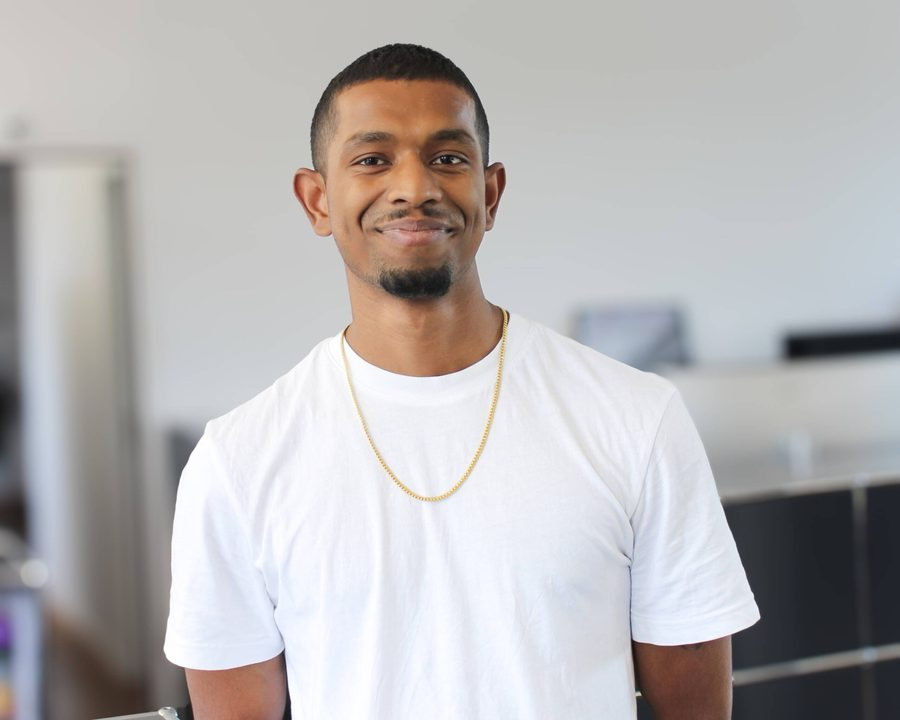
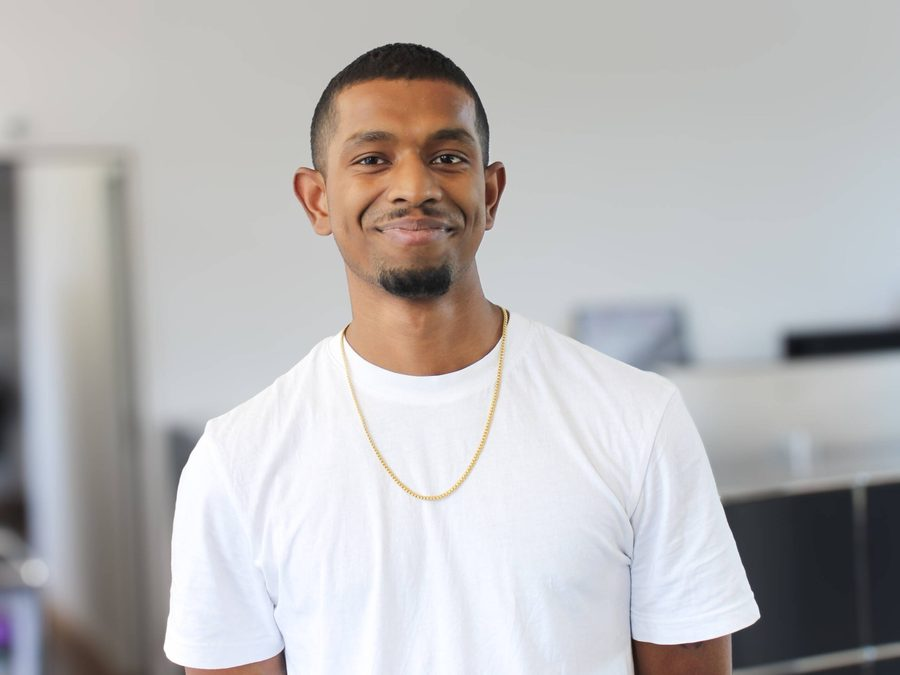
Team photo refresh, GL titles, hero Bewerben CTA, borderless 3D viewer
Portraits, re-checked against iem.ch (September 2026). The client is
re-shooting the roster from 3:2 to 4:3; 18 people had moved to the new
2560x1920 original, so their local copies were stale crops. Re-pulled at
the _82_900_0 derivative, matching the rest of the folder. Finn Borter
and Yosef Shonora have since been photographed and drop out of the
silhouette fallback, leaving Valentina Simic as the only photo: null.
Diffed by aspect ratio rather than bytes, per CLAUDE.md — every other
page on iem.ch (Referenzen, Sponsoring, Karriere, Dienstleistungen) is
dimension-identical and untouched.

Team cards print the Geschaeftsleitung's three functions again, at the
user's request. Those are exactly the three iem.ch publishes; the
roster's own role values came from IEM internally, cannot be verified
publicly, and stay unprinted. role was kept in the data for this.

Hero gains a Bewerben CTA beside Kontaktiere, firing the existing
iem:open-bewerbung event so BewerbungDialog stays hosted in JobRegister.

The Ablauf 3D viewer loses its outer ring; shadow-card still carries the
elevation.

Also included: two files already modified in the working tree before
this change - the README and search.ts halves of the earlier
'no published function' edit. The README paragraph is updated here to
match the restored GL titles.

diff --git a/src/components/TeamGrid.tsx b/src/components/TeamGrid.tsx
@@ -1,7 +1,7 @@
 import { useEffect, useMemo, useState } from "react";
 import { FILTER_TEAM } from "./SiteSearch";
 import { initials, normalize } from "@/lib/search";
-import { groups, team, type Group, type Member } from "@/content/iem";
+import { team, trades, type Member, type Trade } from "@/content/iem";
 
 type Filter = "Alle" | "Thun" | "Bern";
 const filters: Filter[] = ["Alle", "Thun", "Bern"];
@@ -11,7 +11,7 @@ const filters: Filter[] = ["Alle", "Thun", "Bern"];
  * its authored order and looking exactly as it did before the dropdown existed,
  * and picking an option narrows it to that group.
  */
-type GroupChoice = "Alle" | Group;
+type GroupChoice = "Alle" | Trade;
 
 /**
  * A-Z by first name, with the surname as tiebreak.
@@ -30,16 +30,18 @@ function byFirstName(a: Member, b: Member) {
 
 /**
  * Every whitespace-separated token must appear somewhere in the member's name,
- * function, office or group, so "pedro sanitär" narrows instead of returning
+ * office or Fachgruppe, so "pedro sanitär" narrows instead of returning
  * nothing. `normalize` is shared with the site search, so both boxes fold
  * umlauts the same way.
+ *
+ * A person's function and their apprenticeship are deliberately *not* in the
+ * haystack. The cards no longer print either, so matching on them would filter
+ * the roster on something the reader cannot see — and typing "Lernende" would
+ * still single out the apprentices, which is exactly what removing the label
+ * was meant to stop.
  */
 function matches(member: Member, tokens: string[]) {
-  const haystack = normalize(
-    [member.name, member.role, member.office, member.group, member.lernend ? "Lernende" : null]
-      .filter(Boolean)
-      .join(" "),
-  );
+  const haystack = normalize([member.name, member.office, member.group].filter(Boolean).join(" "));
   return tokens.every((t) => haystack.includes(t));
 }
 
@@ -90,8 +92,9 @@ export function TeamGrid() {
     return () => window.removeEventListener(FILTER_TEAM, onFilter);
   }, []);
 
-  // Split on `lead`, not on "has a role": most of the roster carries a function
-  // too, and keying off `role` would pull everyone into the leadership block.
+  // Split on `lead` — the one field that says who sits in the Geschäftsleitung.
+  // Nothing on the page prints a function any more, so this is the *only* thing
+  // that can drive the split; don't reintroduce a "has a role" test.
   //
   // The office pills stay a roster-only filter, as before — but search spans
   // both blocks, because looking up a name has to find that person whether or
@@ -100,13 +103,7 @@ export function TeamGrid() {
   const roster = useMemo(() => {
     const rest = team.filter((m) => !m.lead && matches(m, tokens));
     const byOffice = active === "Alle" ? rest : rest.filter((m) => m.office === active);
-    // Lernende is the second axis, so it reads the flag; the trades read `group`.
-    const byGroup =
-      group === "Alle"
-        ? byOffice
-        : group === "Lernende"
-          ? byOffice.filter((m) => m.lernend)
-          : byOffice.filter((m) => m.group === group);
+    const byGroup = group === "Alle" ? byOffice : byOffice.filter((m) => m.group === group);
     return [...byGroup].sort(byFirstName);
   }, [active, group, tokens]);
 
@@ -130,11 +127,18 @@ export function TeamGrid() {
                     className="aspect-[4/5] w-full transition-transform duration-500 group-hover:scale-[1.03]"
                   />
                 </div>
-                <div className="flex flex-col gap-1 p-5">
+                {/* Name and function. These three titles are the only ones on
+                    the page, and the only ones iem.ch itself publishes — the
+                    roster's `role` values came from IEM internally and stay
+                    unprinted. `role` is optional, so guard it rather than
+                    assuming a lead has one. */}
+                <div className="p-5">
                   <h4 className="font-display text-lg font-semibold leading-tight text-ink">
                     {m.name}
                   </h4>
-                  <p className="text-[13px] leading-snug text-brand-blue">{m.role}</p>
+                  {m.role ? (
+                    <p className="mt-1.5 text-[13px] leading-snug text-muted">{m.role}</p>
+                  ) : null}
                 </div>
               </li>
             ))}
@@ -164,7 +168,7 @@ export function TeamGrid() {
                 value={query}
                 onChange={(e) => setQuery(e.target.value)}
                 placeholder="Person suchen"
-                aria-label="Team nach Name, Funktion oder Standort durchsuchen"
+                aria-label="Team nach Name, Fachgruppe oder Standort durchsuchen"
                 className="w-full rounded-full bg-surface py-1.5 pl-9 pr-9 text-[13px] text-ink ring-1 ring-line transition-colors placeholder:text-muted hover:ring-line-strong [&::-webkit-search-cancel-button]:appearance-none"
               />
               {query ? (
@@ -200,7 +204,7 @@ export function TeamGrid() {
                 className="w-full cursor-pointer appearance-none rounded-full bg-surface py-1.5 pl-4 pr-9 text-[13px] font-medium text-ink ring-1 ring-line transition-colors hover:ring-line-strong sm:w-auto"
               >
                 <option value="Alle">Alle Gruppen</option>
-                {groups.map((g) => (
+                {trades.map((g) => (
                   <option key={g} value={g}>
                     {g}
                   </option>
@@ -255,16 +259,14 @@ export function TeamGrid() {
                   className="aspect-[3/4] w-full transition-transform duration-500 group-hover:scale-[1.04]"
                 />
               </div>
+              {/* Name and office, nothing else. The roster used to print a
+                  function and a "· Lernende" marker; both were removed at the
+                  client's request, so no card singles a person out by rank or
+                  by being an apprentice. */}
               <div className="flex flex-col gap-0.5">
                 <span className="text-[14px] font-medium leading-tight text-ink">{m.name}</span>
-                {/* Function where IEM has supplied one; the rest keep the
-                    office line alone rather than showing an empty slot. */}
-                {m.role ? (
-                  <span className="text-[12px] leading-snug text-brand-blue">{m.role}</span>
-                ) : null}
                 <span className="font-mono text-[10px] uppercase tracking-ultra-wide text-muted">
                   {m.office}
-                  {m.lernend ? <span className="text-brand-bronze"> · Lernende</span> : null}
                 </span>
               </div>
             </li>

diff --git a/src/content/iem.ts b/src/content/iem.ts
@@ -801,22 +801,25 @@ export type Member = {
   name: string;
   office: "Thun" | "Bern" | null;
   /**
-   * Published function.
+   * Published function. **Recorded, but no longer shown anywhere on the page** —
+   * the client asked for every personal function to come off the team section,
+   * the Geschäftsleitung's three included. `TeamGrid` and the site search both
+   * ignore this field; a card carries name and office only.
    *
-   * iem.ch/team prints a function for **three** people only — the Geschäfts-
-   * führer and the two site heads. Every other `role` here comes from IEM
-   * internally and cannot be checked against the public site, so treat it the
-   * way you would any unsourced claim: **never guess one.** A wrong job title
-   * on a real, named person is a different class of error from a wrong project
-   * figure. Leave it unset and the card shows name and office only.
+   * It is kept rather than deleted because the three values that came from
+   * iem.ch/team (Geschäftsführer, the two Standortleiter) are sourced facts and
+   * cheap to hold. Everything else here came from IEM internally and cannot be
+   * checked against the public site, so the old rule still stands if the labels
+   * ever come back: **never guess a function for a real, named person.**
    */
   role?: string;
   /**
    * Geschäftsleitung — drives the split in `TeamGrid`.
    *
-   * Deliberately separate from `role`: the split used to key off "has a role",
-   * which silently meant that giving anyone else a function moved them into the
-   * leadership block and emptied the roster.
+   * Deliberately separate from `role`, and now the *only* thing that can drive
+   * that split, since no function is rendered. The split used to key off "has a
+   * role", which silently meant that giving anyone else a function moved them
+   * into the leadership block and emptied the roster.
    */
   lead?: boolean;
   /**
@@ -832,10 +835,15 @@ export type Member = {
    */
   group?: Trade;
   /**
-   * Lernende — orthogonal to `group`, never a substitute for it.
+   * Lernende — orthogonal to `group`, never a substitute for it: apprentices
+   * hold a trade as well, so this is a flag alongside `group` rather than a
+   * value inside it.
    *
-   * See the note on `groups`: apprentices hold a trade as well, so this is a
-   * flag alongside `group` rather than a value inside it.
+   * **Recorded, not published.** Like `role`, this was taken off the page at the
+   * client's request — no card prints it, the Fachgruppen dropdown has no
+   * "Lernende" option, and neither search box matches on it. Don't wire it back
+   * into the UI without asking; the point of removing it was that the roster
+   * stops marking out which colleagues are apprentices.
    */
   lernend?: boolean;
   photo: string | null;
@@ -843,25 +851,16 @@ export type Member = {
 
 /**
  * The four Fachgruppen a person belongs to — mutually exclusive, one each.
+ * They are also, in this order, the options of the dropdown in `TeamGrid`.
+ *
+ * There is deliberately **no fifth "Lernende" option.** It is not a trade —
+ * every apprentice IEM listed also sits in one — and more to the point the page
+ * no longer states anyone's function at all, so it is not a filter either. See
+ * `lernend` on `Member`: the flag is still recorded, just never published.
  */
 export const trades = ["Admin", "Heizung", "Lüftung", "Sanitär"] as const;
 
 export type Trade = (typeof trades)[number];
-
-/**
- * The dropdown's options: the four trades, plus Lernende.
- *
- * **Lernende is a second axis, not a fifth trade.** Every apprentice IEM listed
- * also sits in a trade — an apprentice learns *within* Heizung or Sanitär — and
- * the one assignment the public site publishes says so outright: Dilagshan
- * Krishnamoorthy's function on iem.ch/team reads "Lernende Lüftung". So it is
- * carried as the separate `lernend` flag rather than as a `group` value, the
- * same split `lead` and `role` already make above. Collapsing the two would
- * force every apprentice out of their trade.
- */
-export const groups = [...trades, "Lernende"] as const;
-
-export type Group = (typeof groups)[number];
 
 export const team: Member[] = [
   // `group` / `lernend` below were supplied by IEM (August 2026), not derived.
@@ -891,7 +890,7 @@ export const team: Member[] = [
   { name: "Ken Zurflüh", office: "Bern", group: "Heizung", photo: "/img/team/ken-zurflh.jpg" },
 
   { name: "Nico Baumgartner", office: "Thun", group: "Heizung", photo: "/img/team/nico-baumgartner.jpg" },
-  { name: "Finn Borter", office: "Thun", group: "Heizung", photo: null },
+  { name: "Finn Borter", office: "Thun", group: "Heizung", photo: "/img/team/borter-finn.jpg" },
   { name: "Kastriot Colaj", office: "Thun", group: "Heizung", photo: "/img/team/colaj-kastriot-2026-2.jpg" },
   { name: "Ilir Destani", office: "Thun", group: "Heizung", photo: "/img/team/destani-ilir-2026.jpg" },
   { name: "Seraina Grossen", office: "Thun", group: "Admin", photo: "/img/team/grossen-seraina.jpg" },
@@ -904,7 +903,7 @@ export const team: Member[] = [
   { name: "Stefan Pulfer", office: "Thun", group: "Sanitär", photo: "/img/team/stefan-pulfer.jpg" },
   { name: "Janis Reusser", office: "Thun", group: "Heizung", photo: "/img/team/reusser-janis.jpg" },
   { name: "Jan Reuter", office: "Thun", group: "Lüftung", photo: "/img/team/jan-reuter.jpg" },
-  { name: "Yosef Shonora", office: "Thun", group: "Sanitär", photo: null },
+  { name: "Yosef Shonora", office: "Thun", group: "Sanitär", photo: "/img/team/shonora-yosef.jpg" },
   { name: "Joel Soder", office: "Thun", group: "Sanitär", photo: "/img/team/joel-soder.jpg" },
   { name: "Miriam Soricelli", office: "Thun", group: "Lüftung", photo: "/img/team/soricelli-miriam-2025.jpg" },
   { name: "Emir Sylejmani", office: "Thun", group: "Heizung", lernend: true, photo: "/img/team/emir-sylejmani.jpg" },

diff --git a/src/components/Hero.tsx b/src/components/Hero.tsx
@@ -1,4 +1,5 @@
 import { useState } from "react";
+import { openBewerbung } from "./BewerbungButton";
 import { Button } from "./Button";
 import { HeroModel } from "./HeroModel";
 import { KPI } from "./KPI";
@@ -89,6 +90,12 @@ export function Hero() {
           <div className="flex flex-wrap items-center gap-3">
             <Button size="lg" href="#kontakt" trailing="→">
               Kontaktiere
+            </Button>
+            {/* Opens the form hosted down in `JobRegister` over the
+                `iem:open-bewerbung` seam, so the hero neither owns the dialog
+                nor has to scroll the reader to Karriere to reach it. */}
+            <Button size="lg" variant="mark" onClick={() => openBewerbung()}>
+              Bewerben
             </Button>
             <Button size="lg" variant="secondary" href="#referenzen">
               Referenzen ansehen

diff --git a/src/components/ModelScene.tsx b/src/components/ModelScene.tsx
@@ -730,7 +730,7 @@ export function ModelScene({ act, running }: { act: Act; running: boolean }) {
        phase buttons and the caption below the fold. Height that answers to the
        viewport keeps the whole section in view; the cap stops it growing
        absurd on a tall monitor. */
-    <div className="relative aspect-[4/3] w-full overflow-hidden rounded-lg bg-surface ring-1 ring-line shadow-card sm:aspect-[16/10] lg:aspect-auto lg:h-[min(58vh,560px)]">
+    <div className="relative aspect-[4/3] w-full overflow-hidden rounded-lg bg-surface shadow-card sm:aspect-[16/10] lg:aspect-auto lg:h-[min(58vh,560px)]">
       <div aria-hidden className="grid-bg absolute inset-0 opacity-50" />
 
       <div

diff --git a/src/lib/search.ts b/src/lib/search.ts
@@ -130,9 +130,11 @@ export const searchIndex: SearchResult[] = [
       id: `team:${m.name}`,
       kind: "Team",
       title: m.name,
-      detail: [m.role, m.office, m.group, m.lernend ? "Lernende" : null]
-        .filter(Boolean)
-        .join(" · "),
+      // Office and Fachgruppe only. A person's function and their
+      // apprenticeship are recorded but unpublished (see `Member` in the
+      // content module), and the search panel is part of the page — printing
+      // them here would put back exactly what the team cards no longer show.
+      detail: [m.office, m.group].filter(Boolean).join(" · "),
       href: "#team",
       member: m,
       image: m.photo,

diff --git a/CLAUDE.md b/CLAUDE.md
@@ -53,10 +53,12 @@ Unused leftovers: `ref/magglingen-2.jpg` and `ref/stuckimatte-2.jpg` are byte-id
 `team` in `src/content/iem.ts` is the full roster — **41 people**, which matches the "41 Mitarbeitende inkl. Lernende" figure on iem.ch/ueber-uns.
 
 - Names and name→photo pairings were taken from the `alt`/`title` attributes on iem.ch/team, **not** inferred from filenames. The filenames mix `first_last` and `last_first`, so guessing mislabels people. If you add someone, get their pairing the same way.
-- **`role` and `lead` are two different things.** `lead: true` marks the three Geschäftsleitung members and is what `TeamGrid` splits on; `role` is anyone's function. They used to be the same field — the split keyed off "has a role", so giving a fourth person a title silently moved them into the leadership block and dropped them out of the roster. Don't collapse them again.
-- iem.ch/team prints a function for **three** people only (Geschäftsführer, the two Standortleiter). Every other `role` comes from IEM internally and **cannot be verified against the public site** — so it can only be added when someone at IEM supplies it. **Never guess a job title for a real, named person.** That is a different class of error from a wrong project figure: it attaches a false professional claim to an identifiable individual. Unset is fine; the card then shows name and office only.
-- Roles are also written as given, including the gendered form. Don't "correct" someone's title, and don't infer a form from a name.
-- `photo: null` marks the people the site shows with its silhouette placeholder — **three** as of the August 2026 re-check (Finn Borter, Yosef Shonora, Valentina Simic). `TeamGrid` renders navy initials instead: an honest monogram beats a generic stock silhouette and keeps the grid rhythm. Recheck this against iem.ch/team rather than trusting the count here; portraits get added as people are photographed.
+- **Only the Geschäftsleitung's three titles are published.** At the client's request (September 2026) the roster cards print **name and office only** — no `role`, no "· Lernende" marker. The three GL cards are the exception, restored at the user's request: they print the `role` beneath the name, and those are exactly the three functions iem.ch itself publishes (Geschäftsführer, the two Standortleiter). The Fachgruppen dropdown lists the four trades and does not offer "Lernende". Neither search box matches on a function or on the apprenticeship: matching a roster function would filter on something the reader cannot see, and matching "Lernende" would go on singling out the apprentices, which is the thing removing the label was for. Don't extend the titles past those three, and don't put the "· Lernende" marker back, without asking.
+- **`lernend` is recorded but never published, and most of `role` with it.** Both were kept rather than deleted, so nothing sourced from IEM is lost. Only `TeamGrid`'s Geschäftsleitung block reads `role`, and only for the three `lead: true` members; every other value in the field is unpublished.
+- **`role` and `lead` are two different things**, and `lead` is now the *only* thing that can split the grid. `lead: true` marks the three Geschäftsleitung members and is what `TeamGrid` splits on; `role` is anyone's function. They used to be the same field — the split keyed off "has a role", so giving a fourth person a title silently moved them into the leadership block and dropped them out of the roster. Don't collapse them again.
+- iem.ch/team prints a function for **three** people only (Geschäftsführer, the two Standortleiter) — which is why those three are the ones the page prints too. Every other `role` came from IEM internally and **cannot be verified against the public site**, so it stays off the page. The rule holds for any label that is ever added: it can only be added when someone at IEM supplies it, and **never guess a job title for a real, named person.** That is a different class of error from a wrong project figure — it attaches a false professional claim to an identifiable individual. Roles are also stored as given, including the gendered form; don't "correct" someone's title, and don't infer a form from a name.
+- `photo: null` marks the people the site shows with its silhouette placeholder — **one** as of the September 2026 re-check (Valentina Simic). Finn Borter and Yosef Shonora have since been photographed and now carry portraits. `TeamGrid` renders navy initials instead: an honest monogram beats a generic stock silhouette and keeps the grid rhythm. Recheck this against iem.ch/team rather than trusting the count here; portraits get added as people are photographed.
+- **The portraits are being re-shot from 3:2 to 4:3.** The September 2026 re-check found 18 people whose live original had moved from `720x480`-style 3:2 to `2560x1920` 4:3 — a genuine re-shoot, caught by the aspect-ratio rule above. Those were re-pulled at `_82_900_0`. Five people are still on the old 3:2 frame (Andreas Huber, Stefan Pulfer, Dylan Schommer, Marc Wittwer, Ken Zurflüh); expect them to change next, and diff aspect ratios rather than bytes to find them.
 
 ### Real facts vs. positioning
 

diff --git a/README.md b/README.md
@@ -73,8 +73,10 @@ The roster is the real 41 people. Two rules, worth respecting:
 
 - Names and name→photo pairings come from the `alt` attributes on `iem.ch/team`, not from filenames
   — the filenames mix `first_last` and `last_first` order, so guessing mislabels real people.
-- Only the three leadership roles have a published function. **Don't invent job titles.** The other
-  38 entries show name and location only.
+- Only the three Geschäftsleitung cards state a function, and those are the three iem.ch itself
+  publishes. The other 38 entries show name and location only, and the roster no longer marks who is
+  an apprentice. `lernend` and the rest of `role` stay in the data but nothing renders or searches
+  them. **Don't invent job titles** for the entries that don't have a published one.
 
 ## Images
 
